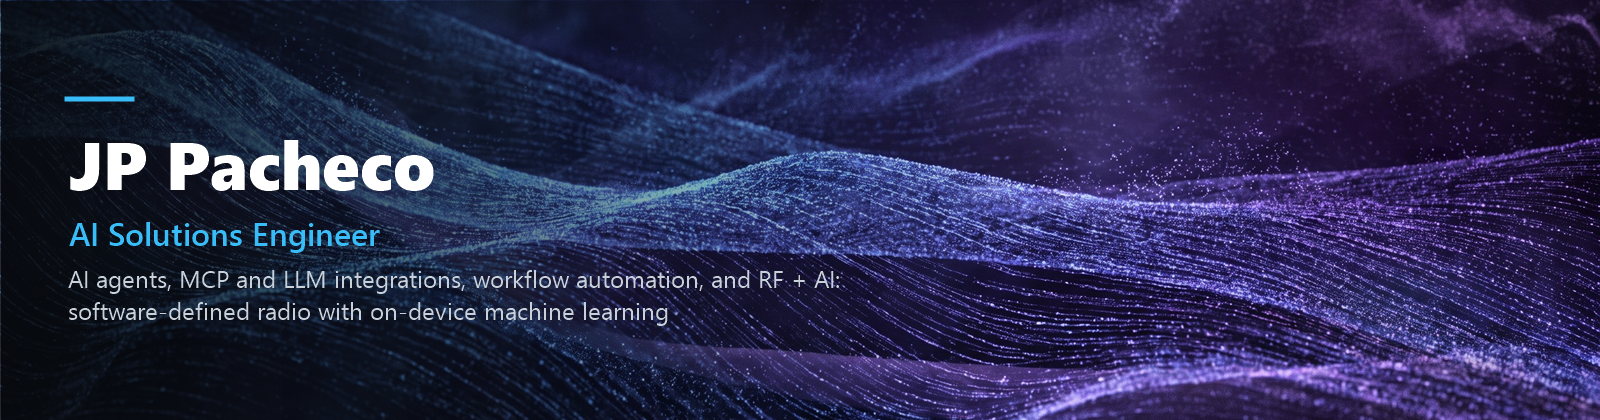
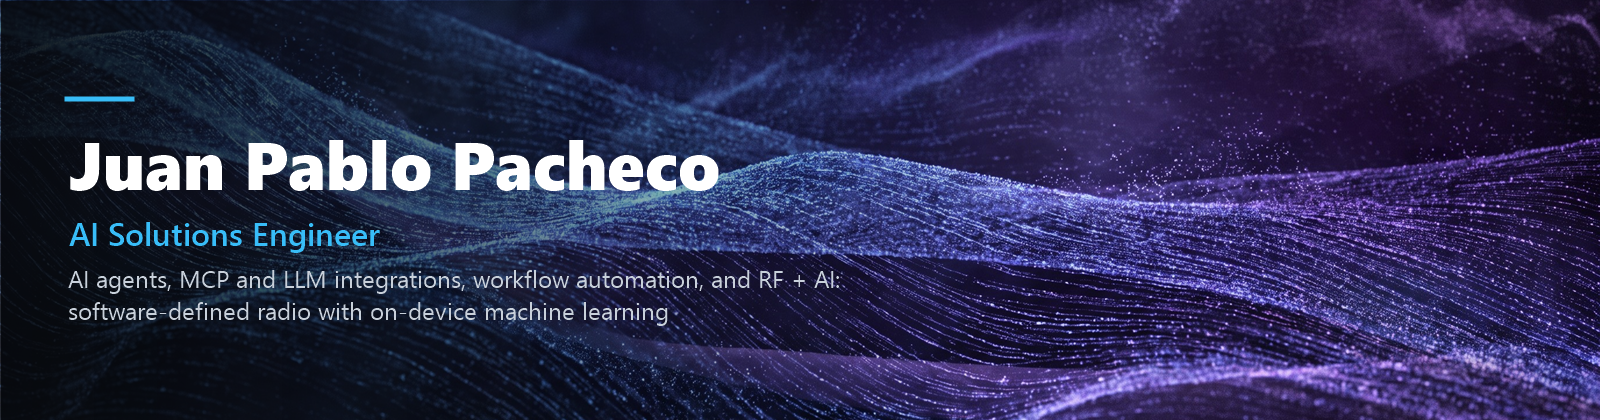
Profile: full name Juan Pablo Pacheco

Changed region(s): [[0.0625, 0.3405, 0.4688, 0.4643]]

diff --git a/README.md b/README.md
@@ -1,6 +1,6 @@
-<p align="center"><img src="assets/header.png" alt="JP Pacheco: AI Solutions Engineer. AI agents, MCP and LLM integrations, workflow automation, and RF + AI software-defined radio with on-device machine learning" width="100%"></p>
+<p align="center"><img src="assets/header.png" alt="Juan Pablo Pacheco: AI Solutions Engineer. AI agents, MCP and LLM integrations, workflow automation, and RF + AI software-defined radio with on-device machine learning" width="100%"></p>
 
-# JP Pacheco | AI Solutions Engineer
+# Juan Pablo Pacheco | AI Solutions Engineer
 
 <p><img alt="Claude" src="https://img.shields.io/badge/Claude-D97757?style=flat-square&logo=anthropic&logoColor=white"> <img alt="MCP" src="https://img.shields.io/badge/MCP-111827?style=flat-square"> <img alt="LLM APIs" src="https://img.shields.io/badge/LLM%20APIs-6B21A8?style=flat-square"> <img alt="AI Agents" src="https://img.shields.io/badge/AI%20Agents-0E7490?style=flat-square"> <img alt="Python" src="https://img.shields.io/badge/Python-3776AB?style=flat-square&logo=python&logoColor=white"> <img alt="PyTorch" src="https://img.shields.io/badge/PyTorch-EE4C2C?style=flat-square&logo=pytorch&logoColor=white"> <img alt="ONNX Runtime" src="https://img.shields.io/badge/ONNX%20Runtime-005CED?style=flat-square&logo=onnx&logoColor=white"> <img alt="C#" src="https://img.shields.io/badge/C%23-512BD4?style=flat-square&logo=dotnet&logoColor=white"> <img alt=".NET" src="https://img.shields.io/badge/.NET-512BD4?style=flat-square&logo=dotnet&logoColor=white"> <img alt="Django" src="https://img.shields.io/badge/Django-092E20?style=flat-square&logo=django&logoColor=white"> <img alt="Twilio" src="https://img.shields.io/badge/Twilio-F22F46?style=flat-square&logo=twilio&logoColor=white"> <img alt="Stripe" src="https://img.shields.io/badge/Stripe-635BFF?style=flat-square&logo=stripe&logoColor=white"> <img alt="Cloudflare" src="https://img.shields.io/badge/Cloudflare-F38020?style=flat-square&logo=cloudflare&logoColor=white"> <img alt="GitHub Actions" src="https://img.shields.io/badge/GitHub%20Actions-2088FF?style=flat-square&logo=githubactions&logoColor=white"> <img alt="SDR / RF" src="https://img.shields.io/badge/SDR%20/%20RF-0F766E?style=flat-square"> <img alt="DSP" src="https://img.shields.io/badge/DSP-334155?style=flat-square"></p>
 
